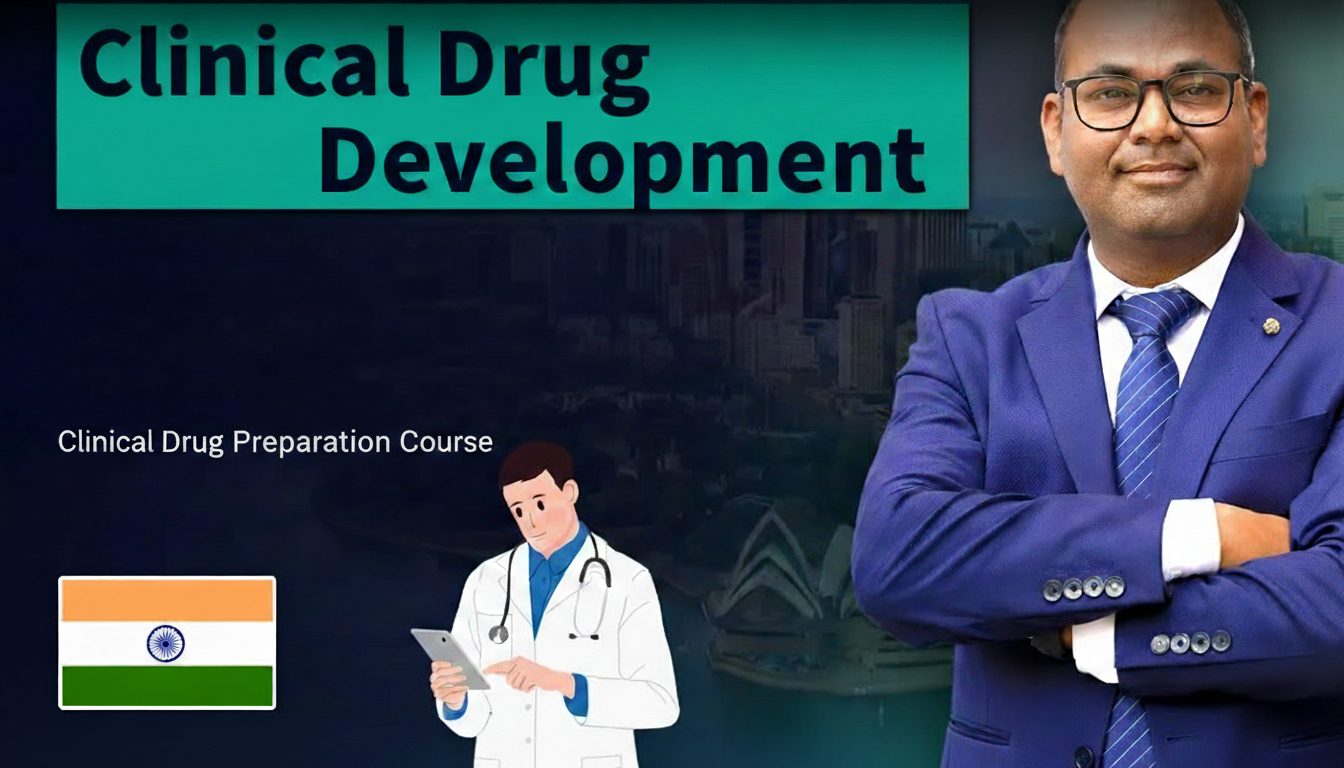
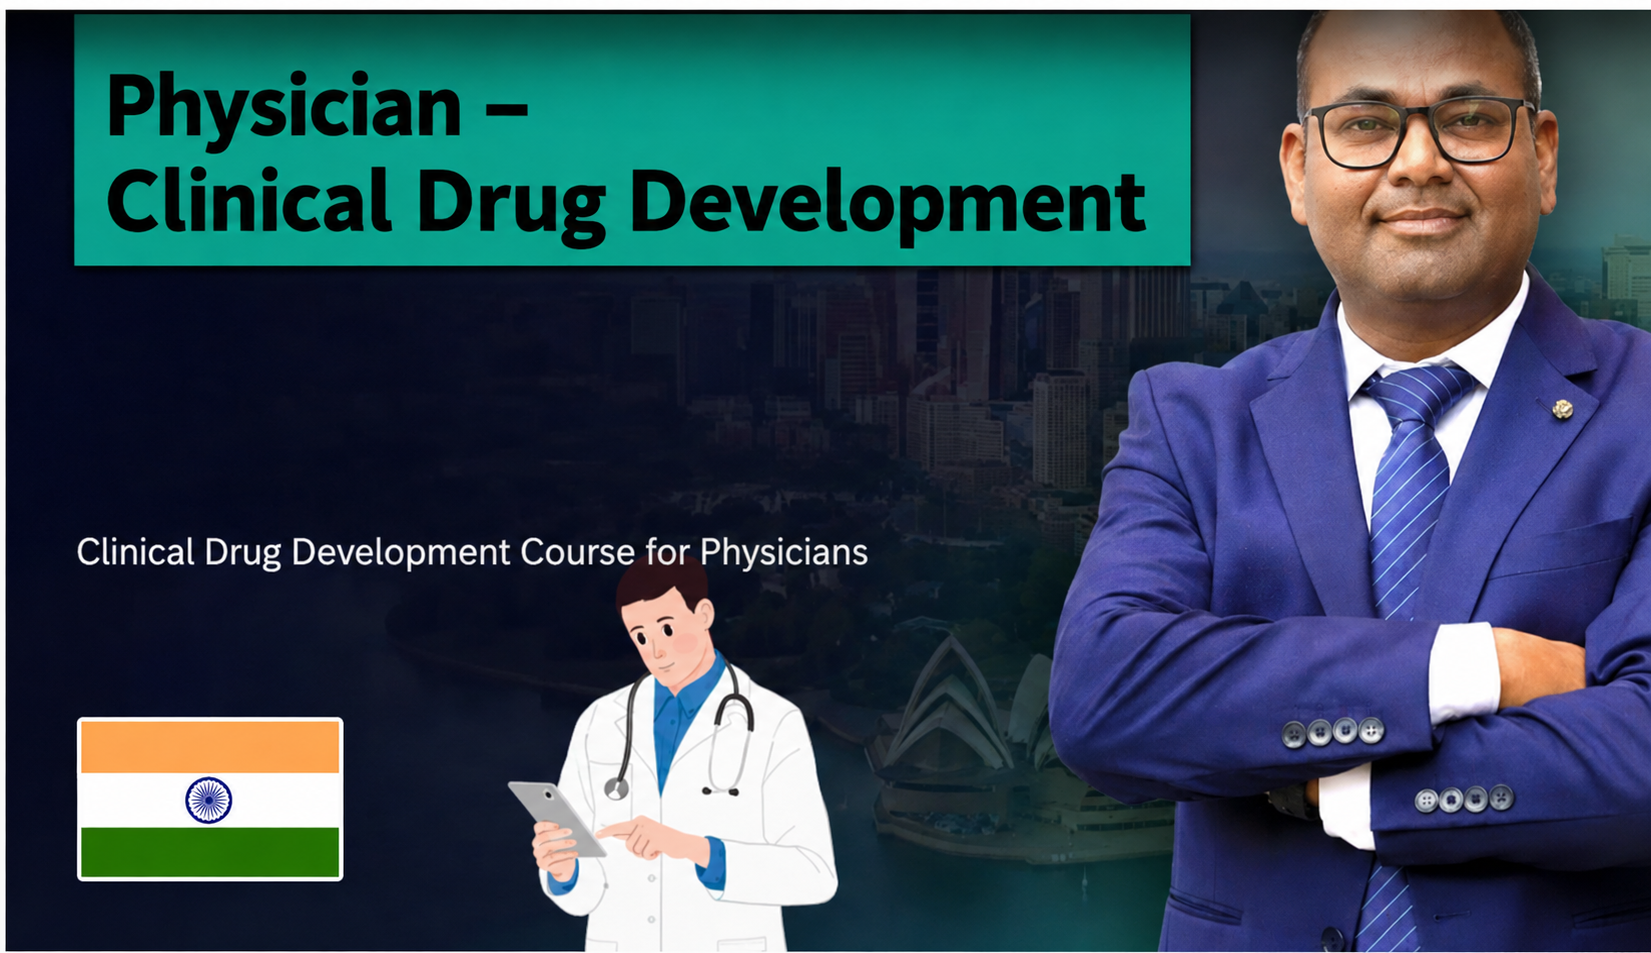
feat: implement course filtering, detail pages, and centralized data management components

diff --git a/src/Components/CourseCard.jsx b/src/Components/CourseCard.jsx
@@ -5,24 +5,26 @@ import Link from "next/link";
 const CourseCard = ({ course, onClick }) => {
   return (
     <div
-      className="w-full  border border-[#00D9B7]  ">
-      <div className="p-4 flex flex-col ">
-        <img src={course.brochure} alt={course.name}
-          className="mb-4 rounded-md bg-white" />
-        <div className="text-left">
-          <h3 className="font-semibold text-lg mt-2 line-clamp-1">{course.name}</h3>
+      className="w-full h-full border border-[#00D9B7] flex flex-col justify-between">
+      <div className="p-4 flex flex-col h-full justify-between">
+        <div>
+          <img src={course.brochure} alt={course.name}
+            className="mb-4 rounded-md bg-white w-full object-cover" />
+          <div className="text-left min-h-[3.5rem] flex items-center">
+            <h3 className="font-semibold text-lg mt-1 line-clamp-2">{course.name}</h3>
+          </div>
+          <div className="flex justify-start gap-x-4 mt-2">
+            <p className="text-gray-600 p-2 rounded text-sm" style={{ background: 'rgba(153, 246, 228, 0.3)' }}>{course.location}</p>
+            <p className="text-gray-600 p-2 rounded text-sm flex gap-x-2 items-center" style={{ background: 'rgba(153, 246, 228, 0.3)' }}>
+              <svg width="35" height="24" viewBox="0 0 35 24" fill="none" xmlns="http://www.w3.org/2000/svg" className="h-4">
+                <path d="M34.5 15.3279H34.4986V15.8279V20.8993C34.4986 22.3195 33.3161 23.5 31.876 23.5H3.12538C1.68471 23.5 0.5 22.319 0.5 20.8993V3.10071C0.5 1.68104 1.68471 0.500003 3.12537 0.5C3.12538 0.5 3.12538 0.5 3.12538 0.5L31.8773 0.500271C33.3163 0.500271 34.5 1.68088 34.5 3.10098V8.12235V8.17931V15.3279ZM7.54117 2.25953L7.64815 1.67022H7.04921H3.12538C2.3143 1.67022 1.68738 2.28651 1.68738 3.10081V6.99228V7.5903L2.27595 7.48437C4.95166 7.0028 7.05768 4.92282 7.54117 2.25953ZM9.25175 1.67022H8.81439L8.7562 2.10369C8.29827 5.51434 5.56423 8.23377 2.12134 8.69257L1.68738 8.7504V9.18819V14.8117V15.2494L2.12128 15.3073C5.56012 15.766 8.29591 18.4868 8.75625 21.8938L8.81476 22.3269H9.25175H25.7398H26.1767L26.2353 21.8939C26.6969 18.483 29.4338 15.7636 32.8765 15.3073L33.3108 15.2498V14.8117V9.1868V8.74851L32.8763 8.69111C29.4308 8.23595 26.6917 5.51649 26.234 2.10375L26.1758 1.67022H25.7384H9.25175ZM27.9508 1.67022H27.3522L27.4587 2.25925C27.9409 4.92387 30.0468 7.00728 32.7246 7.48577L33.3125 7.59082V6.99356V3.10071C33.3125 2.28833 32.6904 1.67022 31.8774 1.67022H27.9508ZM33.3126 20.8994V17.2148L34.3059 16.2293L32.7257 16.513C30.0504 16.9932 27.948 19.0766 27.4617 21.7373L27.3539 22.3272H27.9536H31.8774C32.6885 22.3272 33.3126 21.7137 33.3126 20.8994ZM2.27661 16.5159L1.68772 16.4095L1.68773 17.0079L1.68784 20.8994C1.68784 21.7156 2.31659 22.3272 3.12573 22.3272H7.04816H7.64825L7.53995 21.7369C7.05219 19.0788 4.94956 16.9987 2.27661 16.5159ZM12.4247 12.0001C12.4247 9.24031 14.7045 6.97281 17.496 6.97281C20.2882 6.97281 22.5753 9.24125 22.5753 12.0001C22.5753 14.759 20.2884 17.0274 17.496 17.0274C14.7045 17.0274 12.4247 14.7599 12.4247 12.0001ZM21.3879 12.0001C21.3879 9.85227 19.648 8.14303 17.496 8.14303C15.3418 8.14303 13.6149 9.85437 13.6149 12.0001C13.6149 14.1464 15.3423 15.8545 17.496 15.8545C19.6475 15.8545 21.3879 14.1485 21.3879 12.0001Z" fill="black" stroke="black" />
+              </svg>
+              {course.fees}</p>
+          </div>
         </div>
-        <div className="flex justify-start gap-x-4">
-          <p className="text-gray-600 p-2 rounded text-sm" style={{ background: 'rgba(153, 246, 228, 0.3)' }}>{course.location}</p>
-          <p className="text-gray-600 p-2 rounded text-sm flex gap-x-2 items-center" style={{ background: 'rgba(153, 246, 228, 0.3)' }}>
-            <svg width="35" height="24" viewBox="0 0 35 24" fill="none" xmlns="http://www.w3.org/2000/svg" className="h-4">
-              <path d="M34.5 15.3279H34.4986V15.8279V20.8993C34.4986 22.3195 33.3161 23.5 31.876 23.5H3.12538C1.68471 23.5 0.5 22.319 0.5 20.8993V3.10071C0.5 1.68104 1.68471 0.500003 3.12537 0.5C3.12538 0.5 3.12538 0.5 3.12538 0.5L31.8773 0.500271C33.3163 0.500271 34.5 1.68088 34.5 3.10098V8.12235V8.17931V15.3279ZM7.54117 2.25953L7.64815 1.67022H7.04921H3.12538C2.3143 1.67022 1.68738 2.28651 1.68738 3.10081V6.99228V7.5903L2.27595 7.48437C4.95166 7.0028 7.05768 4.92282 7.54117 2.25953ZM9.25175 1.67022H8.81439L8.7562 2.10369C8.29827 5.51434 5.56423 8.23377 2.12134 8.69257L1.68738 8.7504V9.18819V14.8117V15.2494L2.12128 15.3073C5.56012 15.766 8.29591 18.4868 8.75625 21.8938L8.81476 22.3269H9.25175H25.7398H26.1767L26.2353 21.8939C26.6969 18.483 29.4338 15.7636 32.8765 15.3073L33.3108 15.2498V14.8117V9.1868V8.74851L32.8763 8.69111C29.4308 8.23595 26.6917 5.51649 26.234 2.10375L26.1758 1.67022H25.7384H9.25175ZM27.9508 1.67022H27.3522L27.4587 2.25925C27.9409 4.92387 30.0468 7.00728 32.7246 7.48577L33.3125 7.59082V6.99356V3.10071C33.3125 2.28833 32.6904 1.67022 31.8774 1.67022H27.9508ZM33.3126 20.8994V17.2148L34.3059 16.2293L32.7257 16.513C30.0504 16.9932 27.948 19.0766 27.4617 21.7373L27.3539 22.3272H27.9536H31.8774C32.6885 22.3272 33.3126 21.7137 33.3126 20.8994ZM2.27661 16.5159L1.68772 16.4095L1.68773 17.0079L1.68784 20.8994C1.68784 21.7156 2.31659 22.3272 3.12573 22.3272H7.04816H7.64825L7.53995 21.7369C7.05219 19.0788 4.94956 16.9987 2.27661 16.5159ZM12.4247 12.0001C12.4247 9.24031 14.7045 6.97281 17.496 6.97281C20.2882 6.97281 22.5753 9.24125 22.5753 12.0001C22.5753 14.759 20.2884 17.0274 17.496 17.0274C14.7045 17.0274 12.4247 14.7599 12.4247 12.0001ZM21.3879 12.0001C21.3879 9.85227 19.648 8.14303 17.496 8.14303C15.3418 8.14303 13.6149 9.85437 13.6149 12.0001C13.6149 14.1464 15.3423 15.8545 17.496 15.8545C19.6475 15.8545 21.3879 14.1485 21.3879 12.0001Z" fill="black" stroke="black" />
-            </svg>
-            {course.fees}</p>
-        </div>
-        <Link href={`/${course.name.toLowerCase().replace(/\s+/g, '-')}`}>
+        <Link href={`/${course.name.toLowerCase().replace(/\s+/g, '-')}`} className="mt-4 block w-full">
           <button
-            className="mt-4 px-4 py-2 w-full bg-[#00D9B7] font-semibold text-[#030A21] text-sm sm:text-base rounded-md hover:bg-[#00D9B7] cursor-pointer"
+            className="px-4 py-2 w-full bg-[#00D9B7] font-semibold text-[#030A21] text-sm sm:text-base rounded-md hover:bg-[#00D9B7] cursor-pointer"
           >
             Preview
           </button>

diff --git a/src/utils/db.js b/src/utils/db.js
@@ -1,12 +1,9 @@
-import mongoose from "mongoose";
 import dns from "dns";
+import mongoose from "mongoose";
 
-// Fix Windows Node.js SRV DNS lookup refusal for MongoDB Atlas cluster
 try {
-  dns.setServers(["8.8.8.8", "1.1.1.1"]);
-} catch (err) {
-  console.warn("Could not set custom DNS servers for MongoDB:", err);
-}
+  dns.setServers(["8.8.8.8", "8.8.4.4"]);
+} catch (err) {}
 
 const MONGODB_URI = process.env.MONGODB_URI;
 
@@ -20,6 +17,33 @@ if (!cached) {
   cached = global.mongoose = { conn: null, promise: null };
 }
 
+async function resolveSrvConnectionString(uri) {
+  if (!uri.startsWith("mongodb+srv://")) return uri;
+
+  try {
+    dns.setServers(["8.8.8.8", "8.8.4.4"]);
+    const match = uri.match(/^mongodb\+srv:\/\/([^:]+):([^@]+)@([^/]+)\/(.*)$/);
+    if (match) {
+      const [, user, pass, host, rest] = match;
+      const srvRecords = await dns.promises.resolveSrv(`_mongodb._tcp.${host}`);
+      let txtOpts = "authSource=admin";
+      try {
+        const txtRecords = await dns.promises.resolveTxt(host);
+        if (txtRecords?.[0]) txtOpts = txtRecords[0].join("&");
+      } catch (_) {}
+
+      if (srvRecords && srvRecords.length > 0) {
+        const hosts = srvRecords.map((r) => `${r.name}:${r.port}`).join(",");
+        const querySep = rest.includes("?") ? "&" : "?";
+        return `mongodb://${user}:${pass}@${hosts}/${rest}${querySep}${txtOpts}&ssl=true`;
+      }
+    }
+  } catch (err) {
+    console.warn("SRV resolution fallback trigger:", err.message);
+  }
+  return uri;
+}
+
 async function connectDB() {
   if (cached.conn) {
     return cached.conn;
@@ -28,11 +52,14 @@ async function connectDB() {
   if (!cached.promise) {
     const opts = {
       bufferCommands: false,
+      serverSelectionTimeoutMS: 5000,
+      connectTimeoutMS: 10000,
     };
 
-    cached.promise = mongoose.connect(MONGODB_URI, opts).then((mongooseInstance) => {
-      return mongooseInstance;
-    });
+    cached.promise = (async () => {
+      const connectionString = await resolveSrvConnectionString(MONGODB_URI);
+      return mongoose.connect(connectionString, opts);
+    })();
   }
 
   try {
@@ -46,3 +73,5 @@ async function connectDB() {
 }
 
 export default connectDB;
+
+

diff --git a/src/Components/Filtersection.jsx b/src/Components/Filtersection.jsx
@@ -27,20 +27,22 @@ const FilterSection = () => {
         {filterData.map((data, index) => (
           <div
             key={index}
-            className="w-full border border-[#00D9B7]  "
+            className="w-full h-full border border-[#00D9B7] flex flex-col justify-between"
           >
-            <div className="p-4 flex flex-col ">
-              <img
-                src={data.img}
-                alt={data.name}
-                className="mb-4 rounded-md bg-white max-sm:w-[70vw] w-full sm:h-[300px] object-cover"
-              />
-              <div className="text-center">
-                <h5 className="text-lg font-semibold text-[#030A21]"
-                  style={{ fontFamily: "'Poppins', sans-serif" }}>{data.name}</h5>
+            <div className="p-4 flex flex-col h-full justify-between">
+              <div>
+                <img
+                  src={data.img}
+                  alt={data.name}
+                  className="mb-4 rounded-md bg-white max-sm:w-[70vw] w-full sm:h-[300px] object-cover"
+                />
+                <div className="text-center min-h-[3rem] flex items-center justify-center">
+                  <h5 className="text-lg font-semibold text-[#030A21]"
+                    style={{ fontFamily: "'Poppins', sans-serif" }}>{data.name}</h5>
+                </div>
               </div>
               <button
-                className="mt-2 px-4 py-2 w-full bg-[#00D9B7] font-semibold text-[#030A21] text-sm sm:text-base rounded-md hover:bg-[#00D9B7] cursor-pointer"
+                className="mt-4 px-4 py-2 w-full bg-[#00D9B7] font-semibold text-[#030A21] text-sm sm:text-base rounded-md hover:bg-[#00D9B7] cursor-pointer"
                 onClick={() => handlePreviewClick(data.name)}
               >
                 Preview

diff --git a/src/Components/Filter.jsx b/src/Components/Filter.jsx
@@ -465,7 +465,7 @@ const coursesObject = {
       duration: '4 Months',
       brochureLink: 'https://drive.google.com/file/d/1ofQPSUGdQHFTghGxhiCzEXW2Lfb9RjMm/view?usp=sharing',
       students: '500+',
-      location: 'Global',
+      location: 'India',
       courseImage: 'https://assets.academically.com/course/6HH1R0honlPjXvd2eSMeIXlo42F7hE2jyFUxhJuT.jpg',
     },
     {
@@ -485,13 +485,13 @@ const coursesObject = {
       name: 'Medical Affairs',
       category: 'Job Assistance',
       description: 'Build a successful career in the pharmaceutical industry with Academically Executive Programme in Medical Affairs/Medical Science Liaison. Designed for doctors, pharmacists, dentists, life science graduates, and PhD holders, this 4-month online course offers industry-focused training, practical capstone projects, expert mentorship, and dedicated job assistance. Learn medical affairs, KOL engagement, scientific communication, clinical research, publication strategy, and evidence generation while developing skills that employers value. With interview preparation, career guidance, and placement support, the programme helps you confidently step into Medical Affairs and MSL roles across leading pharmaceutical and healthcare organisations.',
-      brochure: '/CourseImage/MSL.png',
+      brochure: '/CourseImage/MA.png',
       audfees: '3445 AUD',
-      inrfees: '2,32,000 INR including 18% GST',
+      inrfees: '2,32,000 INR including GST',
       duration: '4-5 Months',
       brochureLink: 'https://drive.google.com/file/d/1VfibdCFribwLdQWIHnC6DjFJRTM8OxfC/view?usp=sharing',
       students: '500+',
-      location: 'Australia',
+      location: 'India',
       courseImage: 'https://assets.academically.com/course/6HH1R0honlPjXvd2eSMeIXlo42F7hE2jyFUxhJuT.jpg',
     }
   ],

diff --git a/src/views/CourseDetailsPage.jsx b/src/views/CourseDetailsPage.jsx
@@ -485,8 +485,8 @@ function CourseDetailsPage() {
         {
             "name": "Medical Affairs",
             "category": "Job Assistance",
-            "description": "Build a successful career in the pharmaceutical industry with Academically's Executive Programme in Medical Affairs/Medical Science Liaison. Designed for doctors, pharmacists, dentists, life science graduates, and PhD holders, this 4-month online course offers industry-focused training, practical capstone projects, expert mentorship, and dedicated job assistance.",
-            "brochure": "/CourseImage/MSL.png",
+            "description": "Build a successful career in the pharmaceutical industry with Academically's Executive Programme in Medical Affairs/Medical Science Liaison. Designed for doctors, pharmacists, dentists, life science graduates, and PhD holders, this 5-month online course offers industry-focused training, practical capstone projects, expert mentorship, and dedicated job assistance.",
+            "brochure": "/CourseImage/MA.png",
             "audfees": "3550 AUD",
             "inrfees": "2,36,000 INR including GST",
             "duration": "5 Months",
